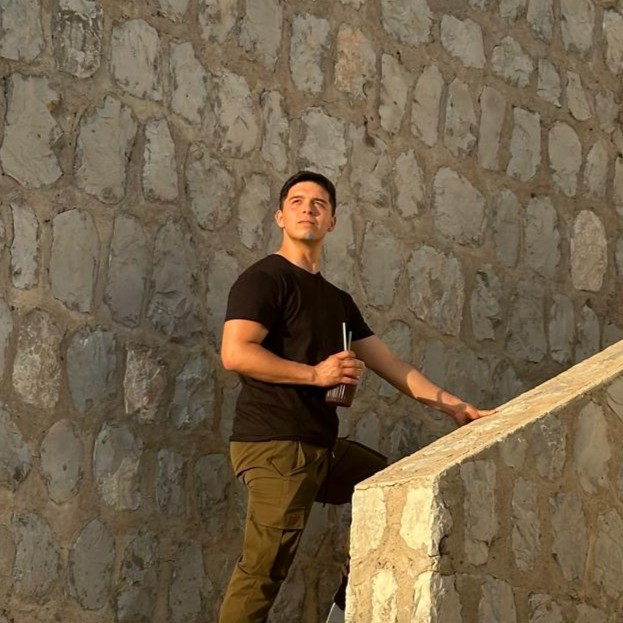
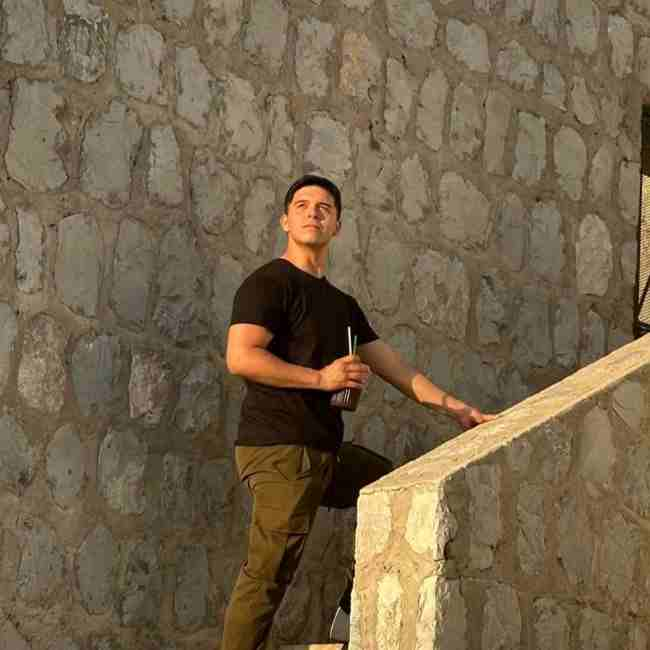
reduced file size of profile Pic

diff --git a/src/components/pages/HomePage.js b/src/components/pages/HomePage.js
@@ -8,17 +8,13 @@ import Skills from "../sections/Skills";
 
 
 export default function HomePage(){
-    const height = (window.innerHeight)
-    const width = (window.innerWidth)
+    // const height = (window.innerHeight)
+    // const width = (window.innerWidth)
 
     return (
         <StyledHomePage>
             <Header />
             <Projects />
-            <div>
-                <h1>height: {height}</h1>
-                <h1>width: {width}</h1>
-            </div>
             <About />
             <Skills />
             <Biography />

diff --git a/src/components/sections/Header.js b/src/components/sections/Header.js
@@ -18,7 +18,7 @@ export default function Header() {
           <GeneralContainer className="container pfp">
             <ImageWrapper>
               <ImageContainer>
-                <img src={ProfilePic} alt="" />
+                <img src={ProfilePic} loading="lazy" alt="" />
                 </ImageContainer>
             </ImageWrapper>
           </GeneralContainer>
